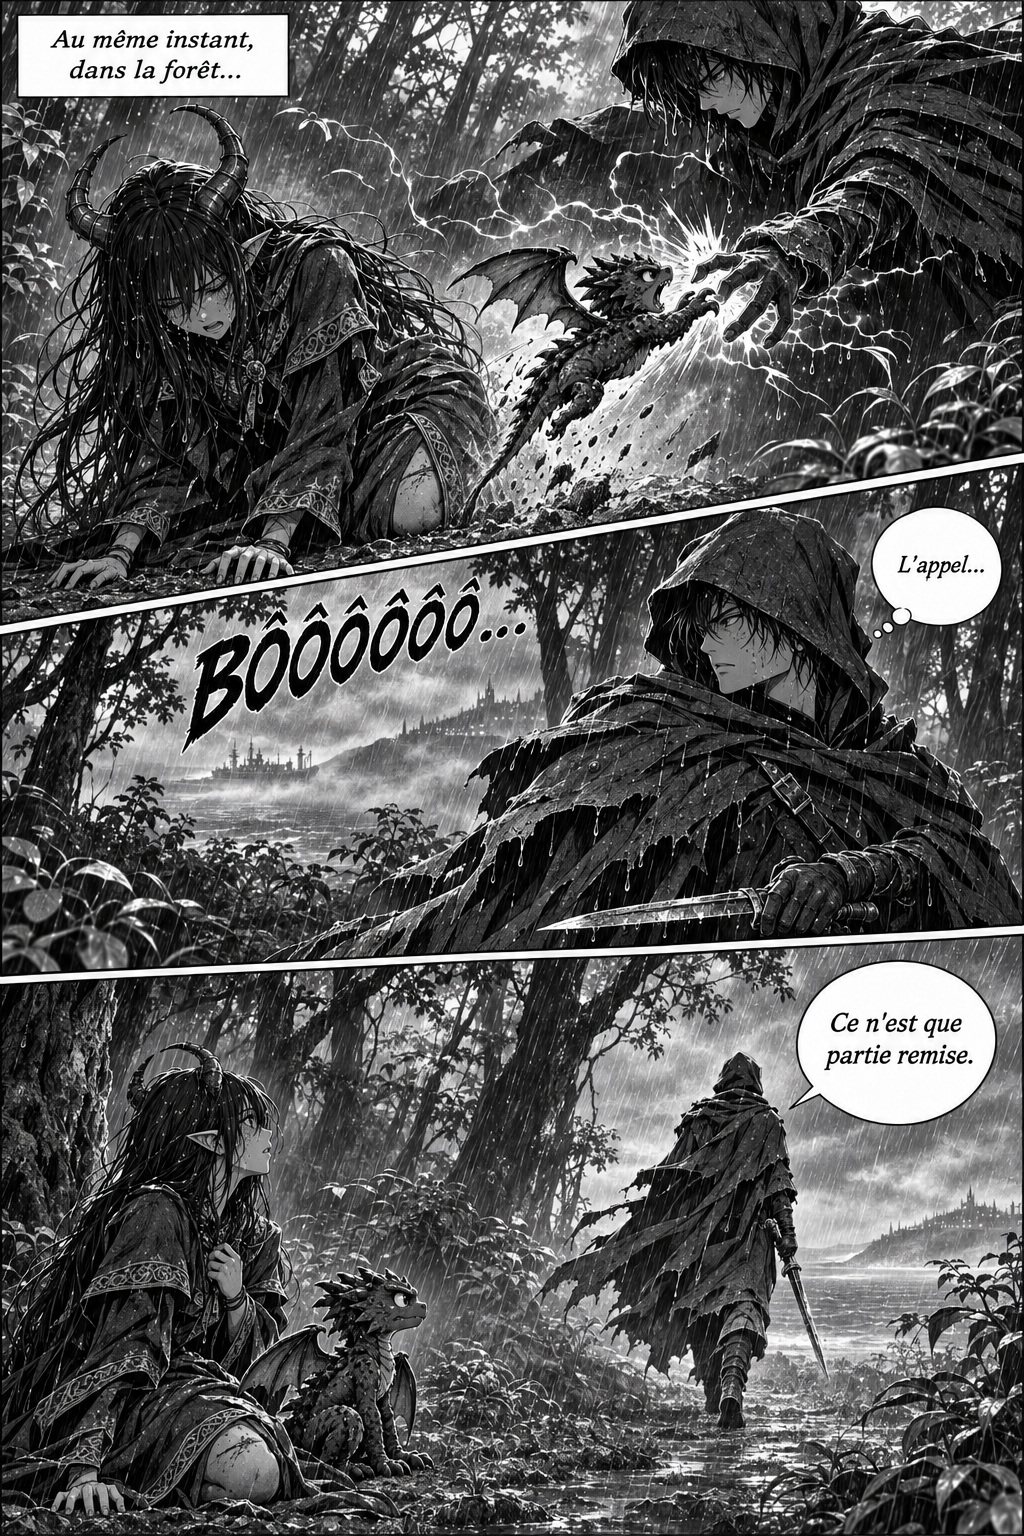
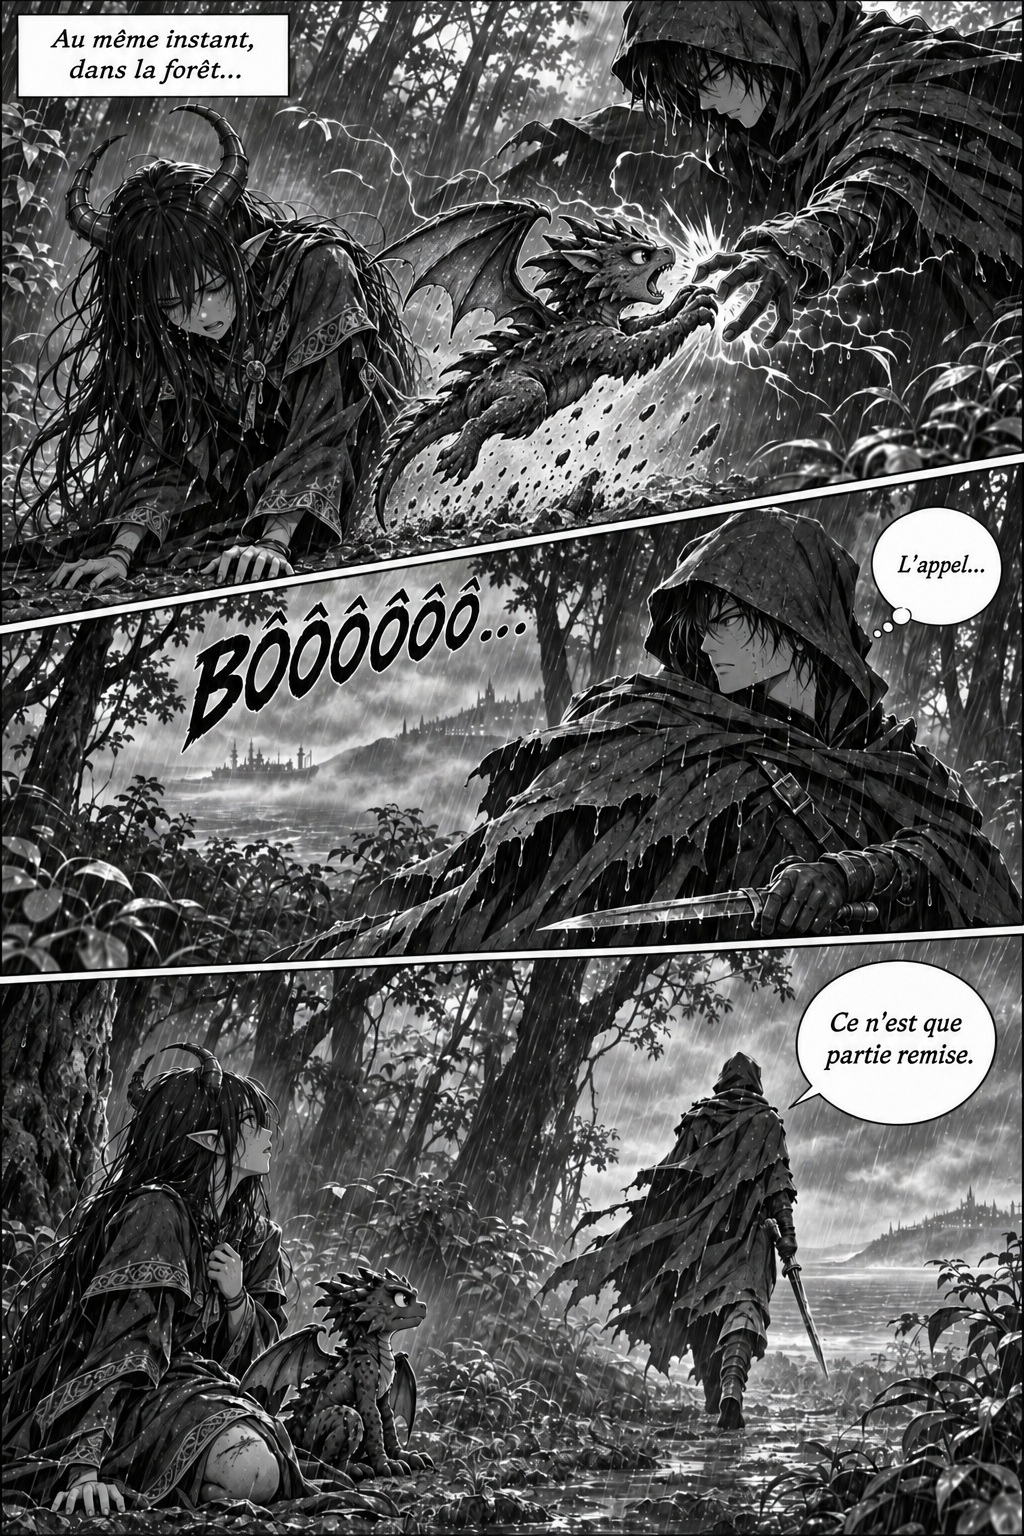
Corriger Lyssara page 115, la taille de Draven et la navigation plein écran
Placer Lyssara au centre entre Aldren et Kael dans toutes les vues de la page 115. Agrandir Draven pendant son bond page 107. Ajouter des commandes précédent/suivant visibles en plein écran et le retour par toucher sur le tiers gauche.

diff --git a/js/app.js b/js/app.js
@@ -94,6 +94,9 @@ document.addEventListener("DOMContentLoaded", () => {
     const mangaContainer = document.getElementById("manga-container");
     const prevPageBtn = document.getElementById("prev-page");
     const nextPageBtn = document.getElementById("next-page");
+    const fullscreenPrevBtn = document.getElementById("fullscreen-prev-page");
+    const fullscreenNextBtn = document.getElementById("fullscreen-next-page");
+    const fullscreenPosition = document.getElementById("fullscreen-page-position");
     const pageSelector = document.getElementById("page-selector");
     const totalPagesLabel = document.getElementById("total-pages");
     const modeToggleBtn = document.getElementById("mode-toggle-btn");
@@ -148,13 +151,17 @@ document.addEventListener("DOMContentLoaded", () => {
     }
 
     function getFilenameForPage(page) {
-        return `chapters/chapitre-01/${String(page).padStart(2, "0")}.jpg`;
+        const revision = page === 107 || page === 115 ? "?v=43" : "";
+        return `chapters/chapitre-01/${String(page).padStart(2, "0")}.jpg${revision}`;
     }
 
     function updatePageControls() {
         if (pageSelector) pageSelector.value = String(currentPage);
         if (prevPageBtn) prevPageBtn.disabled = currentPage === 1;
         if (nextPageBtn) nextPageBtn.disabled = currentPage === totalPages;
+        if (fullscreenPrevBtn) fullscreenPrevBtn.disabled = currentPage === 1;
+        if (fullscreenNextBtn) fullscreenNextBtn.disabled = currentPage === totalPages;
+        if (fullscreenPosition) fullscreenPosition.textContent = `${currentPage} / ${totalPages}`;
     }
 
     function makePageImage(page, eager = false) {
@@ -194,8 +201,16 @@ document.addEventListener("DOMContentLoaded", () => {
         saveCurrentPage(page);
         const img = makePageImage(page, true);
         img.style.cursor = page < totalPages ? "pointer" : "default";
-        img.addEventListener("click", () => {
-            if (!isWebtoonMode && currentPage < totalPages) goToPage(currentPage + 1);
+        img.addEventListener("click", (event) => {
+            if (isWebtoonMode) return;
+            const bounds = img.getBoundingClientRect();
+            const tapOnLeft = document.body.classList.contains("fullscreen-mode") &&
+                event.clientX - bounds.left < bounds.width / 3;
+            if (tapOnLeft) {
+                if (currentPage > 1) goToPage(currentPage - 1);
+            } else if (currentPage < totalPages) {
+                goToPage(currentPage + 1);
+            }
         });
         mangaContainer.appendChild(img);
         if (page === totalPages) appendChapterEnd();
@@ -276,6 +291,11 @@ document.addEventListener("DOMContentLoaded", () => {
         document.body.classList.toggle("fullscreen-mode");
         
         if (document.body.classList.contains("fullscreen-mode")) {
+            // Une page à la fois en immersion, avec des commandes toujours accessibles.
+            if (isWebtoonMode) {
+                isWebtoonMode = false;
+                updateReaderMode();
+            }
             if (document.documentElement.requestFullscreen) {
                 document.documentElement.requestFullscreen().catch(err => console.log(err));
             }
@@ -310,16 +330,16 @@ document.addEventListener("DOMContentLoaded", () => {
         });
     }
 
-    if (prevPageBtn) {
-        prevPageBtn.addEventListener("click", () => {
+    [prevPageBtn, fullscreenPrevBtn].forEach(button => {
+        button?.addEventListener("click", () => {
             if (!isWebtoonMode && currentPage > 1) goToPage(currentPage - 1);
         });
-    }
-    if (nextPageBtn) {
-        nextPageBtn.addEventListener("click", () => {
+    });
+    [nextPageBtn, fullscreenNextBtn].forEach(button => {
+        button?.addEventListener("click", () => {
             if (!isWebtoonMode && currentPage < totalPages) goToPage(currentPage + 1);
         });
-    }
+    });
 
     // Un lien ?page=101 ouvre directement la suite ; l’accueil ne charge pas le manga caché.
     if (requestedPage && mangaContainer) {

diff --git a/css/style.css b/css/style.css
@@ -489,6 +489,46 @@ body.fullscreen-mode #floating-exit-fullscreen {
     display: block;
 }
 
+#fullscreen-navigation { display: none; }
+body.fullscreen-mode #fullscreen-navigation {
+    display: flex;
+    position: fixed;
+    left: 50%;
+    bottom: max(8px, env(safe-area-inset-bottom));
+    transform: translateX(-50%);
+    align-items: center;
+    gap: 12px;
+    z-index: 99999;
+    padding: 4px 8px;
+    border: 1px solid rgba(0, 229, 255, 0.45);
+    border-radius: 10px;
+    background: rgba(0, 0, 0, 0.88);
+    color: var(--accent-gold);
+    font-family: var(--font-heading);
+}
+#fullscreen-navigation button {
+    min-width: 44px;
+    min-height: 44px;
+    border: 1px solid var(--accent-glow);
+    border-radius: 6px;
+    color: var(--accent-glow);
+    background: transparent;
+    font-size: 22px;
+    cursor: pointer;
+    touch-action: manipulation;
+}
+#fullscreen-navigation button:disabled { opacity: 0.3; cursor: default; }
+#fullscreen-navigation button:focus-visible { outline: 2px solid white; outline-offset: 2px; }
+#fullscreen-page-position { min-width: 76px; text-align: center; }
+body.fullscreen-mode #manga-container {
+    height: 100dvh;
+    box-sizing: border-box;
+    padding-bottom: calc(68px + env(safe-area-inset-bottom));
+}
+body.fullscreen-mode #manga-container img {
+    max-height: calc(100dvh - 68px - env(safe-area-inset-bottom));
+}
+
 /* --- SECTION PERSONNAGES --- */
 .characters-grid {
     display: flex;

diff --git a/index.html b/index.html
@@ -5,7 +5,7 @@
     <meta name="viewport" content="width=device-width, initial-scale=1.0">
     <meta name="google-site-verification" content="X0K3fGwJBXbKguIKHyJZ-IjHsh-qGJOsPIcD2CqtczI" />
     <title>AETHERIS | Manga Officiel</title>
-    <link rel="stylesheet" href="css/style.css?v=42">
+    <link rel="stylesheet" href="css/style.css?v=43">
 </head>
 <body>
     <div id="loader" class="active">
@@ -224,7 +224,12 @@
 
     <!-- Bouton flottant de sortie plein écran -->
     <button id="floating-exit-fullscreen">✕ Quitter</button>
+    <nav id="fullscreen-navigation" aria-label="Navigation en plein écran">
+        <button id="fullscreen-prev-page" aria-label="Page précédente" title="Page précédente">←</button>
+        <span id="fullscreen-page-position" role="status" aria-live="polite"></span>
+        <button id="fullscreen-next-page" aria-label="Page suivante" title="Page suivante">→</button>
+    </nav>
 
-    <script src="js/app.js?v=42"></script>
+    <script src="js/app.js?v=43"></script>
 </body>
 </html>

diff --git a/production/PRODUCTION_STATUS.md b/production/PRODUCTION_STATUS.md
@@ -7,3 +7,10 @@ Pages124–125 finalisées et contrôlées visuellement le11novembre2026: passag
 Validation: `python production/verify-chapter.py --baseline 363d54e0ff182a3cfc9b9b2bd1b187324de745e8`.
 
 Publication: branchemain; lien direct de la suite https://aetherismanga.github.io/Aetheris/?page=101
+
+## Corrections du11novembre2026
+
+- Page107: Draven agrandi dans son bond sur la main de l’homme encapuchonné.
+- Page115: Lyssara au centre, soutenue par Aldren et Kael dans les vues avant et arrière; petits panneaux raccordés.
+- Lecteur: flèches précédent/suivant et compteur visibles en plein écran; toucher le tiers gauche de l’image recule également.
+- Images107/115 et ressources du lecteur versionnées pour éviter les anciennes versions en cache.
